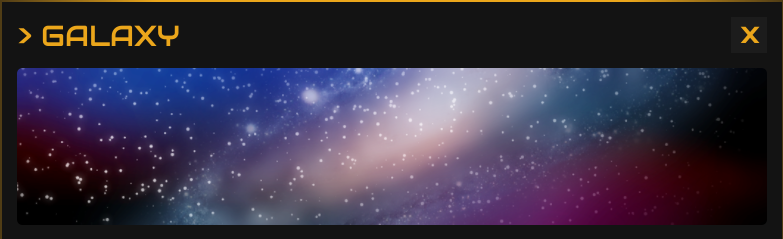
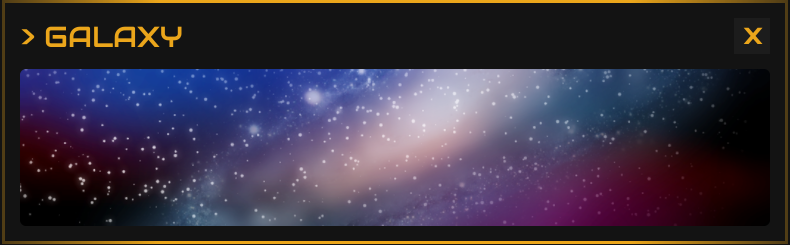
[1.3.7]
Updated funky and galaxy.

diff --git a/assets/js/version.js b/assets/js/version.js
@@ -19,5 +19,6 @@ document.addEventListener("DOMContentLoaded", () => {
 // window.version = "1.3.2"; // Added great war skin
 // window.version = "1.3.3"; // Minor bug fixes. Fixed "Unstoppable" being incorrectly named. Fixed "Bomb" limited card accidentally appearing in the Achievements category.
 // window.version = "1.3.4"; // Added frogmen skin
-window.version = "1.3.5"; // Added prices in gallery, including porting over the official bombline coin graphic. Changed readme to be more specific about which features had already been implemented.
-window.version = "1.3.6"; // Added What Am I fighting for (finally holy)
+// window.version = "1.3.5"; // Added prices in gallery, including porting over the official bombline coin graphic. Changed readme to be more specific about which features had already been implemented.
+// window.version = "1.3.6"; // Added What Am I fighting for
+window.version = "1.3.7"; // Updated Galaxy. Updated Funky.
